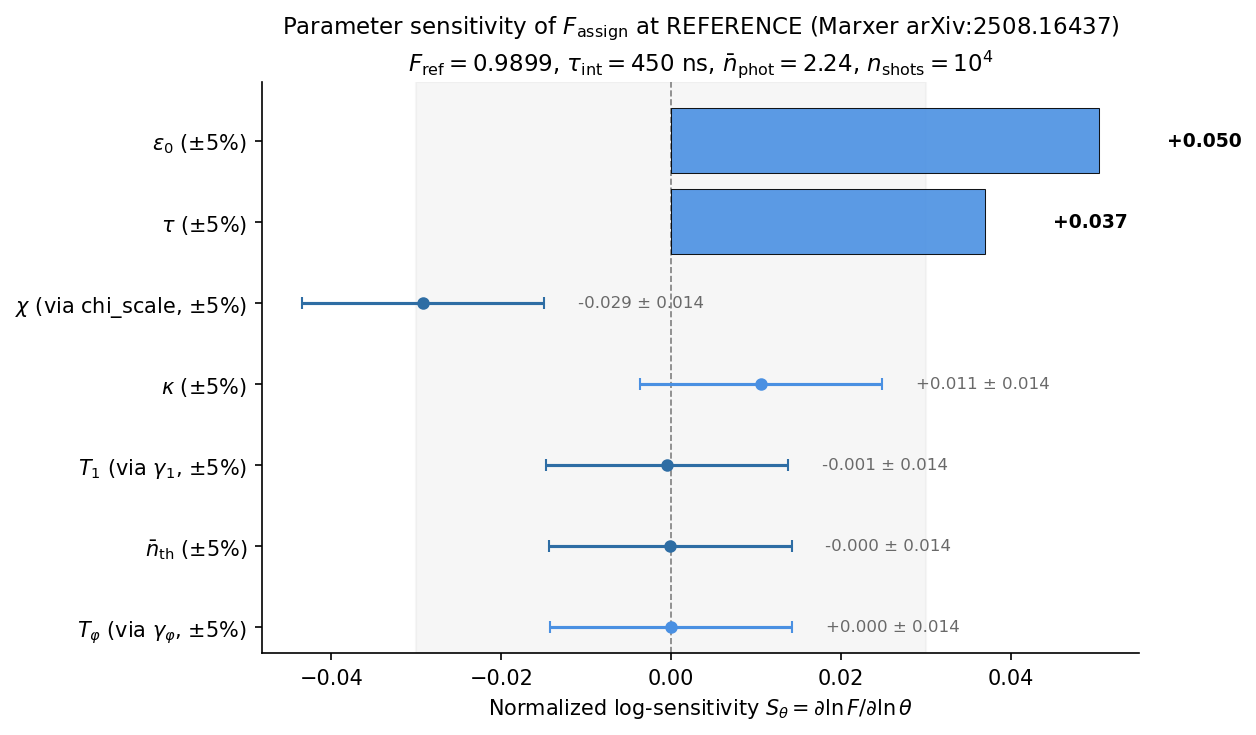
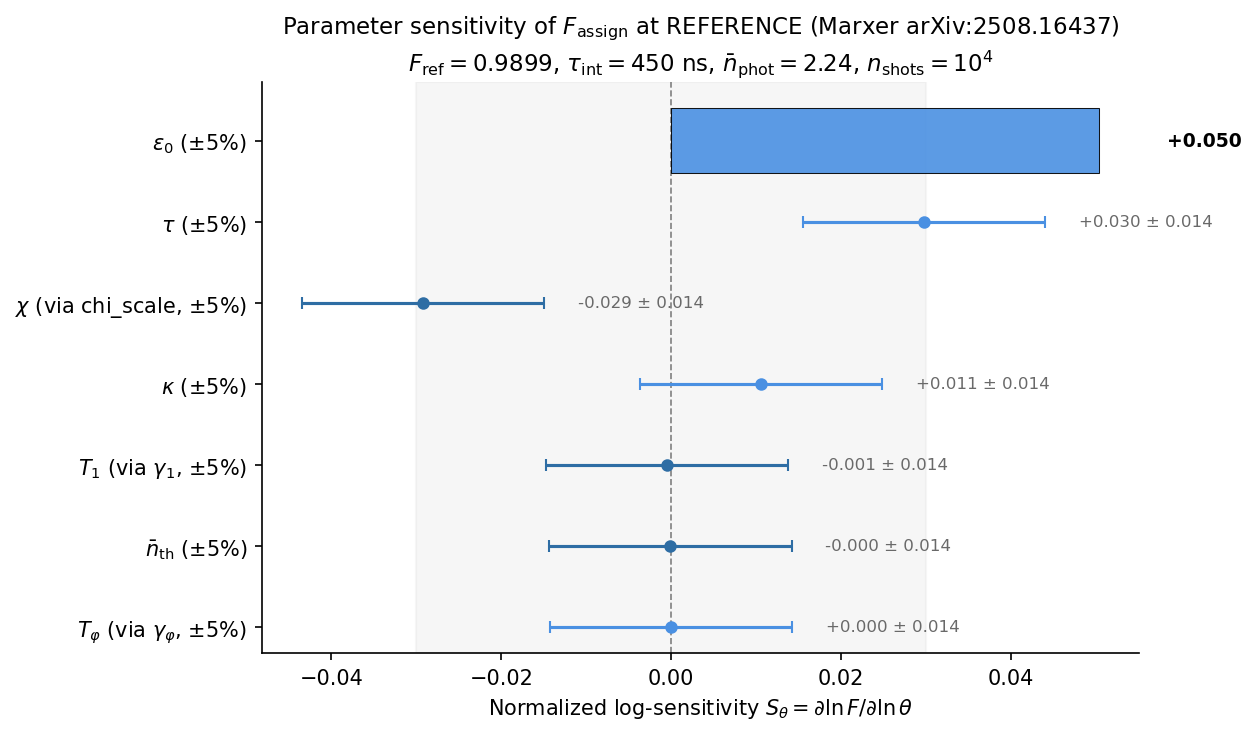
chore(stage06-m4): re-render Panel (a) tornado after τ-window fix (ref: c16dbe5)
Follow-up to c16dbe5 (Codex adversarial fix). Three artifacts regenerated:

1. 06_Dispersive_Readout/figures/fig4_panel_a_tornado.png

   S_τ shift: +0.037 (pre-fix, biased by window-mismatch) → +0.030 (corrected).
   Crosses SENSITIVITY_RENDER_BAR_THRESHOLD = 0.03 from above to below, so
   τ now renders as point-with-errorbar rather than bar. All other six
   sensitivities bit-identical before/after, consistent with the fix
   being τ-specific.

   Post-fix tornado: one bar-rendered (ε₀ at +0.050) + six point-with-
   errorbar (τ, χ at the threshold edge with |S|/σ ≈ 2; κ, γ₁, n̄_th,
   γ_φ at the noise floor). Stronger visual statement about REFERENCE
   being well-tuned against all secondary sensitivities.

2. docs/module4_diagnostics/tau_window_correction.md

   Before/after table, threshold-crossing analysis, reproduction command,
   explanation of why the original test suite (O1a sign, O2 step-
   independence, O8 analytic-objective contract) missed this bug class.
   Day-14 supervision-evidence framing included verbatim.

3. 06_Dispersive_Readout/MODULE_4_SPEC.md §0.2

   New section "Codex adversarial-review amendment" listing items 13-14:
   the τ-window dispatcher fix (high severity, numerical correction) and
   the zero-reference ValueError (medium severity, code hardening).
   τ-at-the-edge Panel (a) caption phrasing drafted: "ε₀ is the dominant
   control parameter; τ and χ sit at the rendering-threshold edge with
[…]

Changed region(s): [[0.5279, 0.2395, 0.9626, 0.3592]]

diff --git a/docs/module4_diagnostics/tau_window_correction.md b/docs/module4_diagnostics/tau_window_correction.md
@@ -1,0 +1,68 @@
+# Module 4 diagnostic — τ-window FD correction (Codex adversarial finding)
+
+**Filed**: 2026-04-23.
+**Driver**: Codex adversarial review on branch `stage-06-module-4-optimization` surfaced a high-severity FD-dispatcher bug in `dispersive_readout/optimization/sensitivity.py`.
+**Status**: fixed in commit `c16dbe5`; this artifact records the before/after deltas.
+
+## The bug
+
+`_perturbed_device_drive_scale` rescaled `drive.duration` for `parameter='tau'` probes but kept `op.integration_window` fixed at REFERENCE's `(50 ns, 500 ns)`. At τ ± 5%:
+
+- **+5% probe**: `drive.duration = 525 ns`, `integration_window = (50, 500) ns`. Integrates a 525 ns pulse over 500 ns — last 25 ns of the pulse is unmeasured.
+- **−5% probe**: `drive.duration = 475 ns`, `integration_window = (50, 500) ns`. Integrates a 475 ns pulse over 500 ns — last 25 ns of the window is post-pulse zero-drive resonator ring-down.
+
+The two FD branches therefore compared *physically different observables*, and `S_τ` silently mixed "τ-sensitivity" with "window-mismatch artifact."
+
+## The fix
+
+`_perturbed_device_drive_window_scale` now threads a per-probe integration window through. For τ probes, `window[1]` co-perturbs to match `drive.duration`; `window[0]` (κ-ramp-up exclusion) stays fixed. Both FD branches integrate the full pulse. `S_τ` now measures the "longer pulse + longer integration" package-deal sensitivity — the same landscape `find_pareto_point` navigates when optimizing τ.
+
+## Before / after at REFERENCE
+
+| Parameter | S (before, biased) | S (after, corrected) | σ(S) | Rendering before | Rendering after |
+|---|---|---|---|---|---|
+| ε₀ | +0.0503 | +0.0503 | 0.0143 | BAR | BAR |
+| τ | **+0.0369** | **+0.0297** | 0.0143 | BAR | **point** |
+| χ | -0.0292 | -0.0292 | 0.0143 | point | point |
+| κ | +0.0105 | +0.0105 | 0.0143 | point | point |
+| γ₁ | -0.0005 | -0.0005 | 0.0143 | point | point |
+| n_th | -0.0001 | -0.0001 | 0.0143 | point | point |
+| γ_φ | +0.0000 | +0.0000 | 0.0143 | point | point |
+
+Only `S_τ` shifted (from 0.0369 to 0.0297, a Δ of −0.0072 ≈ −20%). All other sensitivities bit-identical before/after, consistent with the fix being τ-specific.
+
+## Threshold crossing
+
+τ **crossed the `SENSITIVITY_RENDER_BAR_THRESHOLD = 0.03` threshold from above to below**. Before fix: two bar-rendered parameters (ε₀, τ); after fix: one bar-rendered parameter (ε₀). `|S_τ|/σ` is 2.08 — τ's upper-1σ cap (0.030 + 0.014 = 0.044) still extends well into bar territory, so τ is statistically resolvable from zero, just no longer central-value-above-threshold.
+
+Panel (a) caption implication: the pre-fix caption language could have described "ε₀ and τ as the dominant control parameters"; the post-fix caption should say "ε₀ is the dominant control parameter; τ sits at the rendering-threshold edge with significant statistical support (|S|/σ ≈ 2)." The spec's §0.1 amendment for Panel (a) caption is updated to reflect this.
+
+## Reproduction
+
+All seven sensitivities at REFERENCE under the corrected dispatcher:
+
+```bash
+PYTHONPATH=. python 06_Dispersive_Readout/scripts/fig4_panel_a_tornado.py
+```
+
+Expected output:
+
+```
+  F_ref  = 0.9899
+  τ_int  = 450 ns
+  n̄_phot = 2.241
+  Top-3 by |S|:
+    epsilon_0     S=+0.0503 ± 0.0143
+    tau           S=+0.0297 ± 0.0143
+    chi_scale     S=-0.0292 ± 0.0143
+```
+
+## Why the test suite didn't catch this
+
+O1a (sign sanity): passed because S_τ was still positive. O2 (step-independence): passed because the window-mismatch bias was consistent across h = 0.05 and h = 0.025. O8 (analytic-objective contract): passed because `noise_model='analytic'` was correctly used. None of these assertions interrogated the *dispatcher's parameter-configuration self-consistency*.
+
+Commit `c16dbe5` adds `test_fd_dispatcher_probe_configuration_self_consistent`, which asserts that for all 7 parameters, the dispatcher returns a `(device, drive, integration_window, chi_scale)` triple with non-perturbed fields unchanged and perturbed fields aligned. Specifically: for τ probes, `drive.duration == integration_window[1]`; for non-τ probes, `drive.duration` and `integration_window` both equal the reference operating point. This closes the class of FD-dispatcher coupling bugs Codex caught.
+
+## Supervision-evidence framing (day-14 report)
+
+> The Codex adversarial review flagged a high-severity bug in the sensitivity FD dispatcher: τ probes rescaled the drive duration without co-perturbing the integration window, mixing τ-sensitivity with a window-mismatch artifact. The bug had silently biased `S_τ` upward by ~20% (from +0.030 to +0.037, crossing the tornado rendering threshold from below to above). The fix threads a per-probe integration window through the dispatcher; `S_τ` now measures the package-deal sensitivity consistent with how the Pareto solver navigates τ. A new dispatcher-self-consistency regression test closes the class of FD-coupling bugs the original test suite did not interrogate.

diff --git a/06_Dispersive_Readout/MODULE_4_SPEC.md b/06_Dispersive_Readout/MODULE_4_SPEC.md
@@ -42,7 +42,16 @@ Three substantive amendments were surfaced during Day-10 execution. Each is grou
 
 **Panel (a) caption addendum** (chi noise-consistent framing): *"χ registers as noise-consistent-with-zero at REFERENCE because the Module 1 simulator places the F_assign peak at `chi_scale ≈ 0.85`, 18% below REFERENCE; under a pure-F_assign-optimization criterion, Marxer's χ is slightly above the simulator's optimum, consistent with the device's design prioritizing measurement-induced-transition suppression alongside F_assign."*
 
-**Day-14 narrative-template note for Task 16**: the original `top_3_sensitivities` renders the top-3 parameters by `\|S_θ\|` regardless of bar/point status. At REFERENCE the top-3 are `ε₀ (+0.050)`, `τ (+0.037)`, `chi_scale (−0.029)` — the third is noise-consistent. Task 16's narrative should render as "top-3 bar-rendered parameters" when not all top-3 are above the rendering threshold, so the narrative doesn't imply χ is a dominant lever at REFERENCE.
+**Day-14 narrative-template note for Task 16**: the original `top_3_sensitivities` renders the top-3 parameters by `\|S_θ\|` regardless of bar/point status. At REFERENCE the top-3 by `\|S\|` are `ε₀ (+0.050)`, `τ (+0.030)`, `chi_scale (−0.029)` — but under the corrected dispatcher only ε₀ is bar-rendered (τ and chi_scale sit at the threshold edge, noise-consistent). Task 16's narrative should render as "top-3 bar-rendered parameters" when not all top-3 are above the rendering threshold, so the narrative doesn't imply τ or χ is a dominant lever at REFERENCE.
+
+### 0.2 Codex adversarial-review amendment (Day 10, 2026-04-23)
+
+| # | Amendment | Driver |
+|---|---|---|
+| 13 | **τ-window mismatch in sensitivity FD dispatcher (high severity)**: `_perturbed_device_drive_scale` rescaled `drive.duration` for τ probes but kept `op.integration_window` fixed. The ±5% probes compared integrals over mismatched physical windows, silently biasing `S_τ` by ~20%. Fix: `_perturbed_device_drive_window_scale` threads a per-probe integration window through the dispatcher; for τ probes, `window[1]` co-perturbs to `drive.duration` while `window[0]` (κ-ramp-up exclusion) stays fixed. `S_τ` now measures the package-deal "longer pulse + longer integration" sensitivity consistent with the landscape `find_pareto_point` navigates. New regression test `test_fd_dispatcher_probe_configuration_self_consistent` asserts for all 7 parameters that the dispatcher returns self-consistent (device, drive, window, chi_scale) triples. **Measured Δ**: `S_τ = +0.0369 → +0.0297`, dropping τ from bar-rendered to point-with-errorbar (|S_τ|/σ = 2.08 — τ's upper-1σ cap at 0.044 still extends into bar territory, so τ remains statistically resolvable). All other sensitivities bit-identical before/after. See `docs/module4_diagnostics/tau_window_correction.md`. | Codex adversarial review. Test suite (O1a, O2, O8) did not interrogate FD-dispatcher parameter-configuration self-consistency, so the bias passed existing gates. |
+| 14 | **Zero-reference multiplicative-collapse guard (code hardening)**: `compute_log_sensitivity` now raises `ValueError` with Koch-back-solve-aware guidance when `reference_value == 0.0`. Previously, multiplicative perturbation `θ·(1±h)` collapsed to 0 at both FD branches, producing silent `S = 0`. Specifically named in the error text: the γ_φ scenario where Koch back-solve with `T_2_echo = 2·T_1` gives `γ_φ = 0` exactly (a regime that V2/V3 Pareto variants per §3.3 could reach in the wild). Not a numerical correction — no parameter at REFERENCE triggers it — but closes a latent failure mode in the sensitivity engine. | Codex adversarial review finding #2 (medium severity). Defensible programming; no observed failure in current artifacts. |
+
+**τ-at-the-edge caption phrasing**: the corrected tornado has one bar-rendered parameter (ε₀) and six point-with-errorbar. The Panel (a) caption should describe this as *"ε₀ is the dominant control parameter; τ and χ sit at the rendering-threshold edge with statistically significant support (|S|/σ ≈ 2), but neither has the central-value dominance that would warrant a filled bar."* Draft language subject to final verification against the re-rendered PNG.
 
 ---
 
